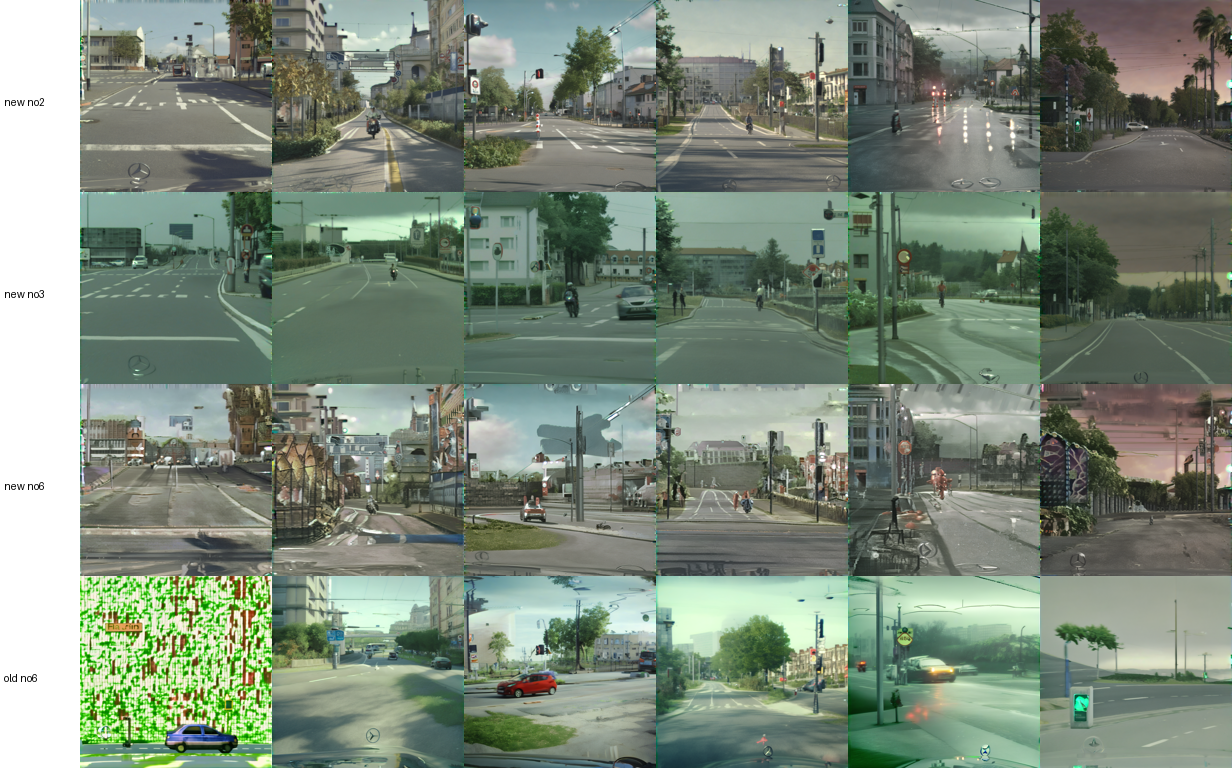
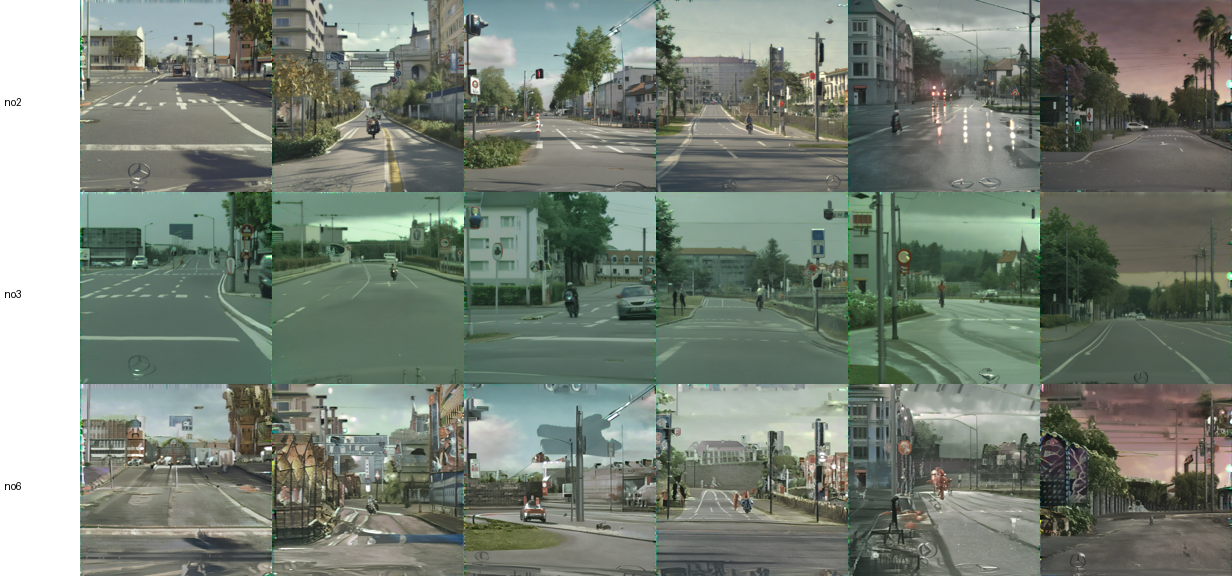
State which defaults belong to earlier experiments; trim the No.6 note to the reported run
Scripts keep their defaults and logic as they ran. Comments now say so:

- scripts/ops/, the queue scripts, make_results.py and plot_loss.py state
  that their defaults are those of earlier experiments whose results are
  not in this repository, and give the values the reported run used (as
  exported by scripts/ops/run_selfgen_chain.sh).
- Dependencies on earlier run directories are named where they occur: the
  CMMD reference link in run_fewshot10.sh, the reused tensor-core gate in
  run_selfgen_chain.sh, FULL_RUN in check_tensor_cores.py.
- make_results.py documents the call that matches the committed
  results/selfgen_fewshot10/, that --refresh reads the diagnosis of
  runs/sdxl_cityscapes whatever --run says, and that MANIFEST.md is not
  committed.
- README.md / README.ko.md describe scripts/ops/ accordingly.

results/selfgen_fewshot10/no6_diagnosis.md no longer compares against an
experiment that is not in the repository; the remaining numbers are those
of summary.csv and router_gate/*.json. results/figures/no6_samples.png
loses its fourth row (that experiment's No.6) and the "new" prefix of the
row labels: 1232x768 -> 1232x576, image area of the three rows unchanged.

Comments, docstrings, two READMEs, one note and one figure; no behaviour change.

Claude-Session: https://claude.ai/code/session_01BC45ggkQqFM3ajHZ4HvBoa

diff --git a/scripts/make_results.py b/scripts/make_results.py
@@ -3,6 +3,30 @@
     python scripts/make_results.py --refresh   # copy evidence from runs/ (+ Improving-CA-LoRA) into results/
     python scripts/make_results.py             # rebuild everything below from results/ only
 
+Defaults and the committed results. The two bare commands above are the earlier
+experiment's: ``--run`` / ``--run-c1`` default to ``sdxl_cityscapes`` / ``sdxl_c1`` (training
+on the full Cityscapes train split), and without ``--base-eval`` the table also needs the
+Improving-CA-LoRA 10K-step reference evals. Neither is in this repository. The committed
+``results/selfgen_fewshot10/`` is the reported run (its ``evals/*.json`` name the runs, its
+``summary.md`` has the base-control-only note) and corresponds to
+
+    python scripts/make_results.py --run sdxl_cityscapes_selfgen_fewshot10 \
+        --run-c1 sdxl_c1_selfgen_fewshot10 --base-eval <base-control eval.json>
+
+with ``--results-dir`` / ``--figures-dir`` at what are now their defaults. The base control
+is the ``control_base`` eval of run ``sdxl_cityscapes_fewshot10`` (the ``run`` field of
+``reference_10k/control_base.json``, the only file in that folder). Without ``--refresh``
+the same command rebuilds the tables and figures from the committed files alone (any
+readable path does for ``--base-eval``, e.g. that ``control_base.json``); with no options
+the build stops on the missing 10K reference files.
+
+Limits of ``--refresh``: the Jaccard source is ``runs/sdxl_cityscapes/diagnosis/diagnosis.json``
+whatever ``--run`` says, while the committed ``diagnosis_jaccard.json`` was extracted from
+``runs/sdxl_cityscapes_selfgen/diagnosis/diagnosis.json`` (its ``source`` field), so
+``--refresh`` does not reproduce that file and overwrites it. Run with the defaults and with
+the earlier runs on disk, ``--refresh`` replaces the committed ``evals/`` and
+``diagnosis_jaccard.json`` with the earlier experiment's.
+
 ``--refresh`` copies, verbatim, every reportable ``<arm>/eval.json`` to
 ``results/selfgen_fewshot10/evals/<arm>.json`` and the Improving-CA-LoRA 10K-step reference evals to
 ``results/selfgen_fewshot10/reference_10k/<arm>.json``, and extracts the Jaccard part of
@@ -15,7 +39,7 @@ The build step then writes, from ``results/selfgen_fewshot10/`` alone:
 * ``results/figures/jaccard_matrix.png`` — t × t Jaccard of the top-2 % style-CA head sets;
 * ``results/figures/tradeoff_scatter.png`` — CMMD vs weather CLIP-Score, same axes as
   Improving-CA-LoRA's trade-off figure;
-* ``MANIFEST.md`` — sha256 of every file written.
+* ``MANIFEST.md`` — sha256 of every file written (not committed to the repository).
 
 Weather CLIP SEM is the per-image sampling error of the mean of the four condition means,
 ``sqrt(Σ_c s_c² / n_c) / 4``, from the stds stored in eval.json. It is *not* a seed-to-seed

diff --git a/scripts/ops/check_tensor_cores.py b/scripts/ops/check_tensor_cores.py
@@ -14,6 +14,13 @@ runs/<name>_gate/tensor_core_gate.json and exits 0 only if every check passes.
 
 Steps 2-4 only need experts and a bundle of the right shape, so they read the
 full-data run's, under a separate <name>_gate run directory.
+
+What this depends on. FULL_RUN (runs/sdxl_cityscapes: its n1 selection, experts and
+n1+n4 bundle) is the full-data run of an earlier experiment, and the default config
+and the gate's run name (sdxl_cityscapes_fewshot10_gate) are those of the earlier
+10-image campaign; neither run is part of this repository. The reported run did not
+run this gate again: scripts/ops/run_selfgen_chain.sh reused
+runs/sdxl_cityscapes_fewshot10_gate/tensor_core_gate.json.
 """
 
 from __future__ import annotations
@@ -53,6 +60,7 @@ TC_MARKERS = ("16816", "1688", "tensorop", "xmma", "hmma", "bf16", "tf32", "flas
               "cutlass_80", "sm80", "sm90")
 MATH_MARKERS = ("gemm", "conv", "fprop", "dgrad", "wgrad", "flash", "fmha", "attention", "xmma",
                 "cutlass", "implicit")
+# The full-data run of an earlier experiment; its directory is not part of this repository.
 FULL_RUN = REPO / "runs" / "sdxl_cityscapes"
 SIBLING_SUBSET = Path("/workspace/Improving-CA-LoRA/runs/sdxl_cityscapes_fewshot10/training_subset.json")
 PY = sys.executable

diff --git a/scripts/plot_loss.py b/scripts/plot_loss.py
@@ -6,6 +6,11 @@
 Completed experts are read from runs/<run>/experts/<expert>/train_summary.json
 (`history`, one entry per log_every=50 steps); an expert still training is read
 from the tail of runs/<run>/run.log (its last "Fostering <expert>" block).
+
+The default --runs (sdxl_cityscapes, sdxl_c1) are the run names of an earlier
+experiment (full-data training) whose results are not in this repository. The
+reported run's directories are sdxl_cityscapes_selfgen_fewshot10 and
+sdxl_c1_selfgen_fewshot10 (scripts/ops/run_selfgen_chain.sh); pass them with --runs.
 """
 from __future__ import annotations
 import argparse, json, re, sys

diff --git a/results/selfgen_fewshot10/no6_diagnosis.md b/results/selfgen_fewshot10/no6_diagnosis.md
@@ -1,33 +1,32 @@
-# No.6 outlier (self-generated x0 campaign)
+# No.6 outlier
 
 No.6 = n3+n4+n5, core n4, router; the only m>1 configuration without n1.
-CMMD 3.216 (dataset-x0 campaign: 2.068); every other arm improved by 0.24–0.64.
-Weather CLIP 22.58 is in line with the other routers (22.2–22.6).
+CMMD 3.216; every other router configuration is at 1.345–1.430.
+Weather CLIP 22.58 is in line with the other routers (21.86–22.61).
 
 ## What the images show
 
-`results/figures/no6_samples.png`: rows are new No.2, new No.3, new No.6 and old No.6, same prompts and seeds.
-New No.6 is not black/flat, but scene structure breaks up in most frames: fragmented façades,
-smeared objects, colour patches and overlay-like artefacts. The old run had a few texture-collapse frames;
-here the distortion is pervasive, which is consistent with a CMMD near the base control (4.08).
+`results/figures/no6_samples.png`: rows are No.2, No.3 and No.6, same prompts and seeds.
+No.6 is not black/flat, but scene structure breaks up in most frames: fragmented façades,
+smeared objects, colour patches and overlay-like artefacts. The distortion is pervasive,
+which is consistent with a CMMD near the base control (4.08).
 
 ## What it is not
 
-- **Not a numeric fault.** No non-finite tensors; `router.bias_moved` is true; the g0 gates have no negative values (`runs/.../bundles/n3+n4+n5-core-n4/bundle_stats.json`).
+- **Not a numeric fault.** No non-finite tensors; `router.bias_moved` is true; the g0 gates have no negative values (`bundles/n3+n4+n5-core-n4/bundle_stats.json` of the run, in the uncommitted `runs/` directory).
 - **Not a different router operating point.** Latent-dependent gates on 12 held-out val frames
   (`router_gate/no6.json` vs `router_gate/no8.json`) are almost identical for the shared sets.
   - ‖ΔW‖-weighted gate, n3 / n5, at t = 50 / 375 / 750:
     - No.6: 0.22 / 0.49 / 1.43 and 0.38 / 0.52 / 1.45.
-    - No.8: 0.24 / 0.58 / 1.53 and 0.45 / 0.58 / 1.55.
+    - No.8: 0.24 / 0.58 / 1.53 and 0.45 / 0.58 / 1.54.
   - The core n4 weight is the same in both: 1.46 / 1.54 / 1.75.
-  - No.8 adds n1 (0.32 → 0.71) on top and still reaches CMMD 1.361.
+  - No.8 adds n1 on top (0.32 / 0.41 / 0.64 at the same t) and still reaches CMMD 1.361.
 - **Not stacking alone.** Both No.6 and No.8 sum the bit-identical shared experts of [125,999]
-  (n4_i1=n5_i2, n3_i1=n4_i2=n5_i3, n3_i2=n4_i3=n5_i4), so the same ΔW enters up to ~2.6× at high t in both.
+  (n4_i1=n5_i2, n3_i1=n4_i2=n5_i3, n3_i2=n4_i3=n5_i4), so at high t the same ΔW enters about 2.5× in No.6
+  and 2.6× in No.8 (1 for the core plus the module-mean n3 and n5 gates at t = 999: 0.77 + 0.77 and 0.80 + 0.81).
 
 ## Working hypothesis (untested)
 
 The distinguishing factor is the absence of n1, the t=81 expert active on all of [0,999].
-Without it, the stacked high-t experts act alone, and the result degrades. The same ordering held in the dataset-x0
-campaign (No.6 worst there as well), and it got worse with the new selections. The new selections place
-the 208 heads in fewer modules (46–76 vs 58–96 per expert), so each module's ΔW is denser.
+Without it, the stacked high-t experts act alone, and the result degrades.
 Testing this needs GPU generation (for example No.6 with the shared copies de-duplicated, or with gates capped). It is not run.

diff --git a/README.ko.md b/README.ko.md
@@ -26,7 +26,7 @@ python scripts/generate_images.py --config $CFG --run-name no3 \
 python scripts/evaluate.py        --config $CFG --run-name no3                           # CMMD, CLIP-Score
 ```
 
-CA 측정은 Improving-CA-LoRA에서 한 번 하고 `scripts/ops/import_measurements.sh`로 가져온다. `scripts/ops/`에는 보고한 실험을 A100 한 대에서 실제로 돌린 스크립트가 있다. Cityscapes는 포함하지 않으며 [cityscapes-dataset.com](https://www.cityscapes-dataset.com/)에서 따로 받아야 한다.
+CA 측정은 Improving-CA-LoRA에서 한 번 하고 `scripts/ops/import_measurements.sh`로 가져온다. `scripts/ops/`에는 GPU 서버(A100 한 대)에서 실험을 돌린 스크립트가 있다. 기본값은 이 레포에 결과가 없는 이전 실험의 것이고, 보고한 실험은 `scripts/ops/run_selfgen_chain.sh`가 설정과 run 이름을 지정해 돌렸다. Cityscapes는 포함하지 않으며 [cityscapes-dataset.com](https://www.cityscapes-dataset.com/)에서 따로 받아야 한다.
 
 ## 폴더 구조
 

diff --git a/README.md b/README.md
@@ -26,7 +26,7 @@ python scripts/generate_images.py --config $CFG --run-name no3 \
 python scripts/evaluate.py        --config $CFG --run-name no3                           # CMMD, CLIP-Score
 ```
 
-The CA measurements are made once in Improving-CA-LoRA and imported with `scripts/ops/import_measurements.sh`. `scripts/ops/` holds the scripts that ran the reported experiments on a single A100. Cityscapes is not included and must be obtained from [cityscapes-dataset.com](https://www.cityscapes-dataset.com/).
+The CA measurements are made once in Improving-CA-LoRA and imported with `scripts/ops/import_measurements.sh`. `scripts/ops/` holds the scripts that ran the experiments on the GPU server (a single A100). Their defaults are those of earlier experiments whose results are not in this repository; the reported run was started by `scripts/ops/run_selfgen_chain.sh`, which sets the config and run names. Cityscapes is not included and must be obtained from [cityscapes-dataset.com](https://www.cityscapes-dataset.com/).
 
 ## Layout
 
